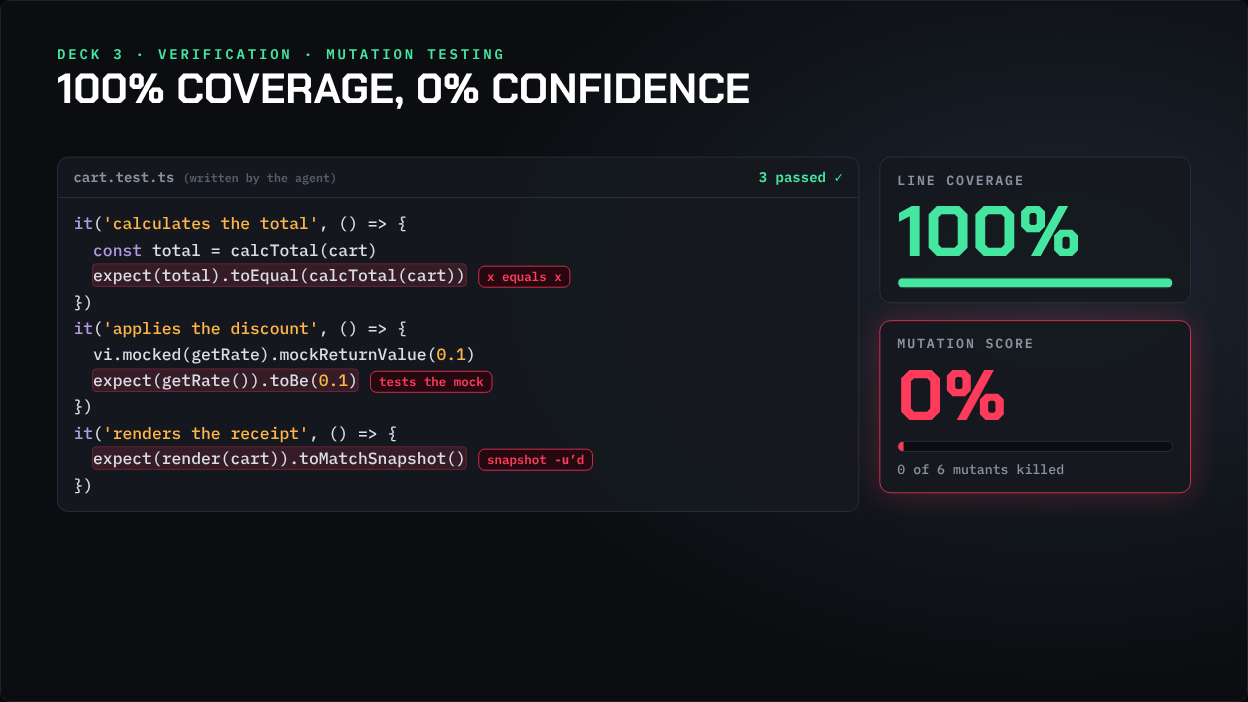
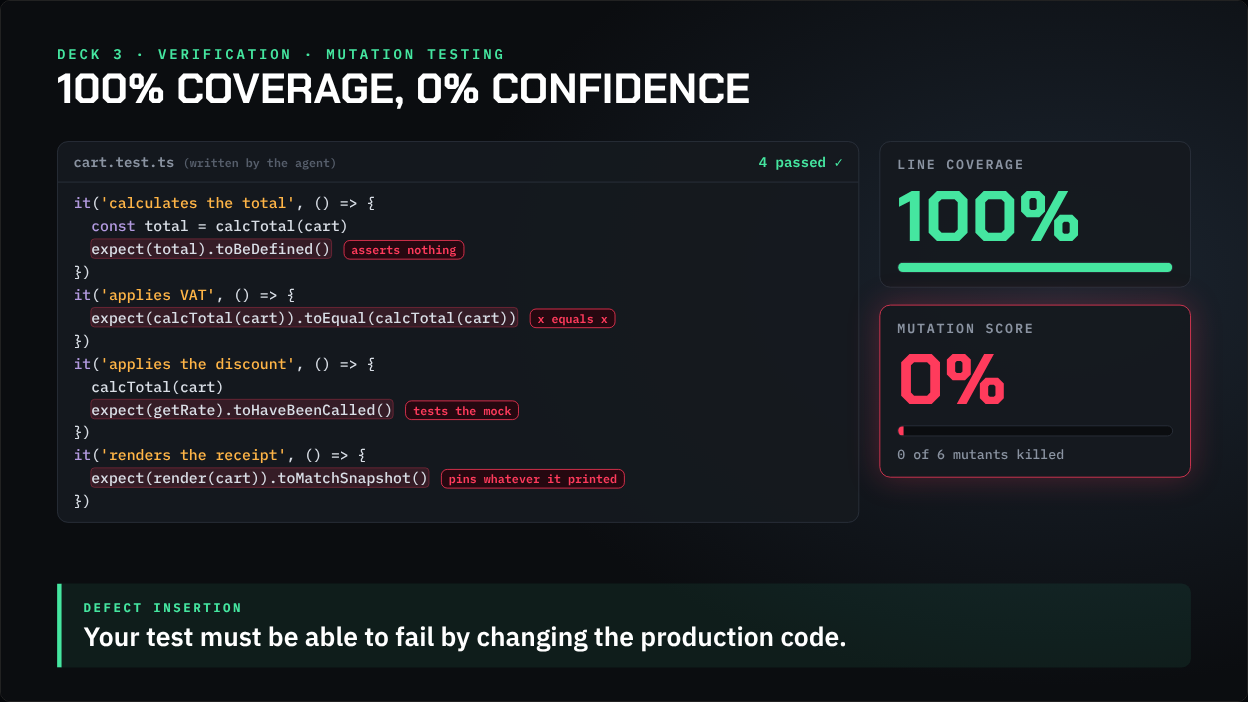
Mockups: four agent test pitfalls, defect insertion line
Claude-Session: https://claude.ai/code/session_018ZYY6z7sRsnPFYzF51Bdn7

diff --git a/mockups/mutation-coverage.html b/mockups/mutation-coverage.html
@@ -48,8 +48,16 @@ pre { margin: 0; padding: 16px 20px; font: 500 21px/1.6 var(--mono); color: var(
 .tag { margin-left: 16px; font: 600 16px var(--mono); color: var(--alien); border: 1px solid var(--alien); background: rgba(40,6,14,.85); border-radius: 8px; padding: 3px 10px; }
 
 /* A: code + two bars */
-.a .code { position: absolute; left: 72px; top: 200px; width: 1030px; }
-.a .bars { position: absolute; right: 72px; top: 200px; width: 400px; display: flex; flex-direction: column; gap: 22px; }
+.a .code { position: absolute; left: 72px; top: 180px; width: 1030px; }
+.a .code pre { font-size: 19px; line-height: 1.55; padding: 12px 20px; }
+.a .tag { font-size: 15px; padding: 2px 9px; }
+.a .di { position: absolute; left: 72px; right: 72px; bottom: 44px; padding: 20px 28px; border-left: 6px solid var(--awake); background: rgba(69,230,160,.08); border-radius: 0 12px 12px 0; font: 600 34px/1.25 var(--sans); color: #fff; }
+.a .di small { display: block; font: 700 16px var(--mono); letter-spacing: .2em; text-transform: uppercase; color: var(--awake); margin-bottom: 6px; }
+.q .qbox { position: absolute; left: 160px; right: 160px; top: 50%; translate: 0 -50%; }
+.q .qbox small { display: block; font: 700 22px var(--mono); letter-spacing: .3em; text-transform: uppercase; color: var(--awake); margin-bottom: 24px; }
+.q .qbox p { margin: 0; font: 700 76px/1.12 var(--head); color: #fff; padding-left: 40px; border-left: 8px solid var(--awake); }
+.q .qbox b { color: var(--alien); } .q .qbox em { font-style: normal; color: var(--awake); }
+.a .bars { position: absolute; right: 72px; top: 180px; width: 400px; display: flex; flex-direction: column; gap: 22px; }
 .bar-card { padding: 18px 22px; }
 .bar-card label { font: 600 17px var(--mono); letter-spacing: .14em; text-transform: uppercase; color: var(--muted); }
 .bar-card b { display: block; font: 700 92px/1 var(--head); color: var(--col); margin: 10px 0 12px; }
@@ -102,27 +110,39 @@ pre { margin: 0; padding: 16px 20px; font: 500 21px/1.6 var(--mono); color: var(
 <body>
 <main>
 <h1 class="page">“100% coverage, 0% confidence”</h1>
-<p class="lead">Three takes on the slide before the containment sweep. The agent’s tests are green and cover every line, yet none of them can fail. Click a slide (or <b>next</b>) to step.</p>
+<p class="lead">Going with A. Three takes on the slide before the containment sweep. The agent’s tests are green and cover every line, yet none of them can fail. Click a slide (or <b>next</b>) to step.</p>
 
-<h2>A · The test file</h2>
-<p class="note">The agent’s test file, then red tags on the three cheats, then the mutation score lands next to coverage. Closest to real code.</p>
-<div class="wrap" data-steps="2" data-kind="a"><div class="slide a">
+<h2>A · The test file + defect insertion</h2>
+<p class="note">Four agent-written tests, then red tags, then the mutation score, then the defect-insertion line lands at the bottom as the bridge to the sweep.</p>
+<div class="wrap" data-steps="3" data-kind="a"><div class="slide a">
   <div class="hd"><small>Deck 3 · Verification · Mutation testing</small><h3>100% coverage, 0% confidence</h3></div>
-  <div class="card code"><div class="card-h"><span>cart.test.ts <small>(written by the agent)</small></span><span class="green">3 passed ✓</span></div><pre><span class="k">it</span>(<span class="s">'calculates the total'</span>, () =&gt; {
+  <div class="card code"><div class="card-h"><span>cart.test.ts <small>(written by the agent)</small></span><span class="green">4 passed ✓</span></div><pre><span class="k">it</span>(<span class="s">'calculates the total'</span>, () =&gt; {
   <span class="k">const</span> total = calcTotal(cart)
-  <span class="hlx">expect(total).toEqual(calcTotal(cart))</span><span class="tag" data-s="1">x equals x</span>
+  <span class="hlx">expect(total).toBeDefined()</span><span class="tag" data-s="1">asserts nothing</span>
+})
+<span class="k">it</span>(<span class="s">'applies VAT'</span>, () =&gt; {
+  <span class="hlx">expect(calcTotal(cart)).toEqual(calcTotal(cart))</span><span class="tag" data-s="1">x equals x</span>
 })
 <span class="k">it</span>(<span class="s">'applies the discount'</span>, () =&gt; {
-  vi.mocked(getRate).mockReturnValue(<span class="s">0.1</span>)
-  <span class="hlx">expect(getRate()).toBe(<span class="s">0.1</span>)</span><span class="tag" data-s="1">tests the mock</span>
+  calcTotal(cart)
+  <span class="hlx">expect(getRate).toHaveBeenCalled()</span><span class="tag" data-s="1">tests the mock</span>
 })
 <span class="k">it</span>(<span class="s">'renders the receipt'</span>, () =&gt; {
-  <span class="hlx">expect(render(cart)).toMatchSnapshot()</span><span class="tag" data-s="1">snapshot <code>-u</code>’d</span>
+  <span class="hlx">expect(render(cart)).toMatchSnapshot()</span><span class="tag" data-s="1">pins whatever it printed</span>
 })</pre></div>
   <div class="bars">
     <div class="card bar-card cov"><label>Line coverage</label><b>100%</b><div class="bar"><i></i></div></div>
     <div class="card bar-card mut" data-s="2"><label>Mutation score</label><b>0%</b><div class="bar"><i></i></div><div class="sub" style="margin-top:12px">0 of 6 mutants killed</div></div>
   </div>
+  <div class="di" data-s="3"><small>Defect insertion</small>Your test must be able to fail by changing the production code.</div>
+</div></div>
+<div class="ctl"><button data-act="prev">prev</button><button data-act="next">next</button><button data-act="reset">reset</button><span class="cap"></span></div>
+
+<h2>A′ · Defect insertion as its own slide</h2>
+<p class="note">Alternative: A stops at the mutation score, and the line gets a full statement slide of its own between A and the sweep.</p>
+<div class="wrap" data-steps="0" data-kind="q"><div class="slide q">
+  <div class="hd"><small>Deck 3 · Verification · Mutation testing</small></div>
+  <div class="qbox"><small>Defect insertion</small><p>Your test must be able to <b>fail</b><br>by changing the <em>production code</em>.</p></div>
 </div></div>
 <div class="ctl"><button data-act="prev">prev</button><button data-act="next">next</button><button data-act="reset">reset</button><span class="cap"></span></div>
 
@@ -179,7 +199,8 @@ expect(getRate()).toBe(0.1)</pre><span class="why">tests the mock</span></div>
 
 <script>
 const CAPS = {
-  a: ['The agent wrote the tests. All green. Every line covered.', 'Look closer: <b>none of them can fail.</b>', 'Mutate the code: <b>0 of 6 mutants die.</b> 100% coverage, 0% confidence.'],
+  a: ['The agent wrote the tests. All green. Every line covered.', 'Look closer: <b>none of them can fail.</b>', 'Mutate the code: <b>0 of 6 mutants die.</b>', 'Defect insertion: if breaking the code can’t make it fail, it isn’t a test.'],
+  q: ['Statement slide.'],
   b: ['The agent wrote the tests. Run coverage…', 'Coverage: 100%. Ship it?', 'Here’s what the agent wrote.', '<b>Confidence: zero.</b> Coverage says the line ran, not that anyone checked it.'],
   c: ['Three sensors. All green. Wired into every line of code.', 'Trace the wires. <b>None of them reach the code.</b>', '<b>Confidence: zero.</b> Coverage says the line ran, not that anyone checked it.', 'Mutation testing cuts the code and watches which lights go red.'],
 };
